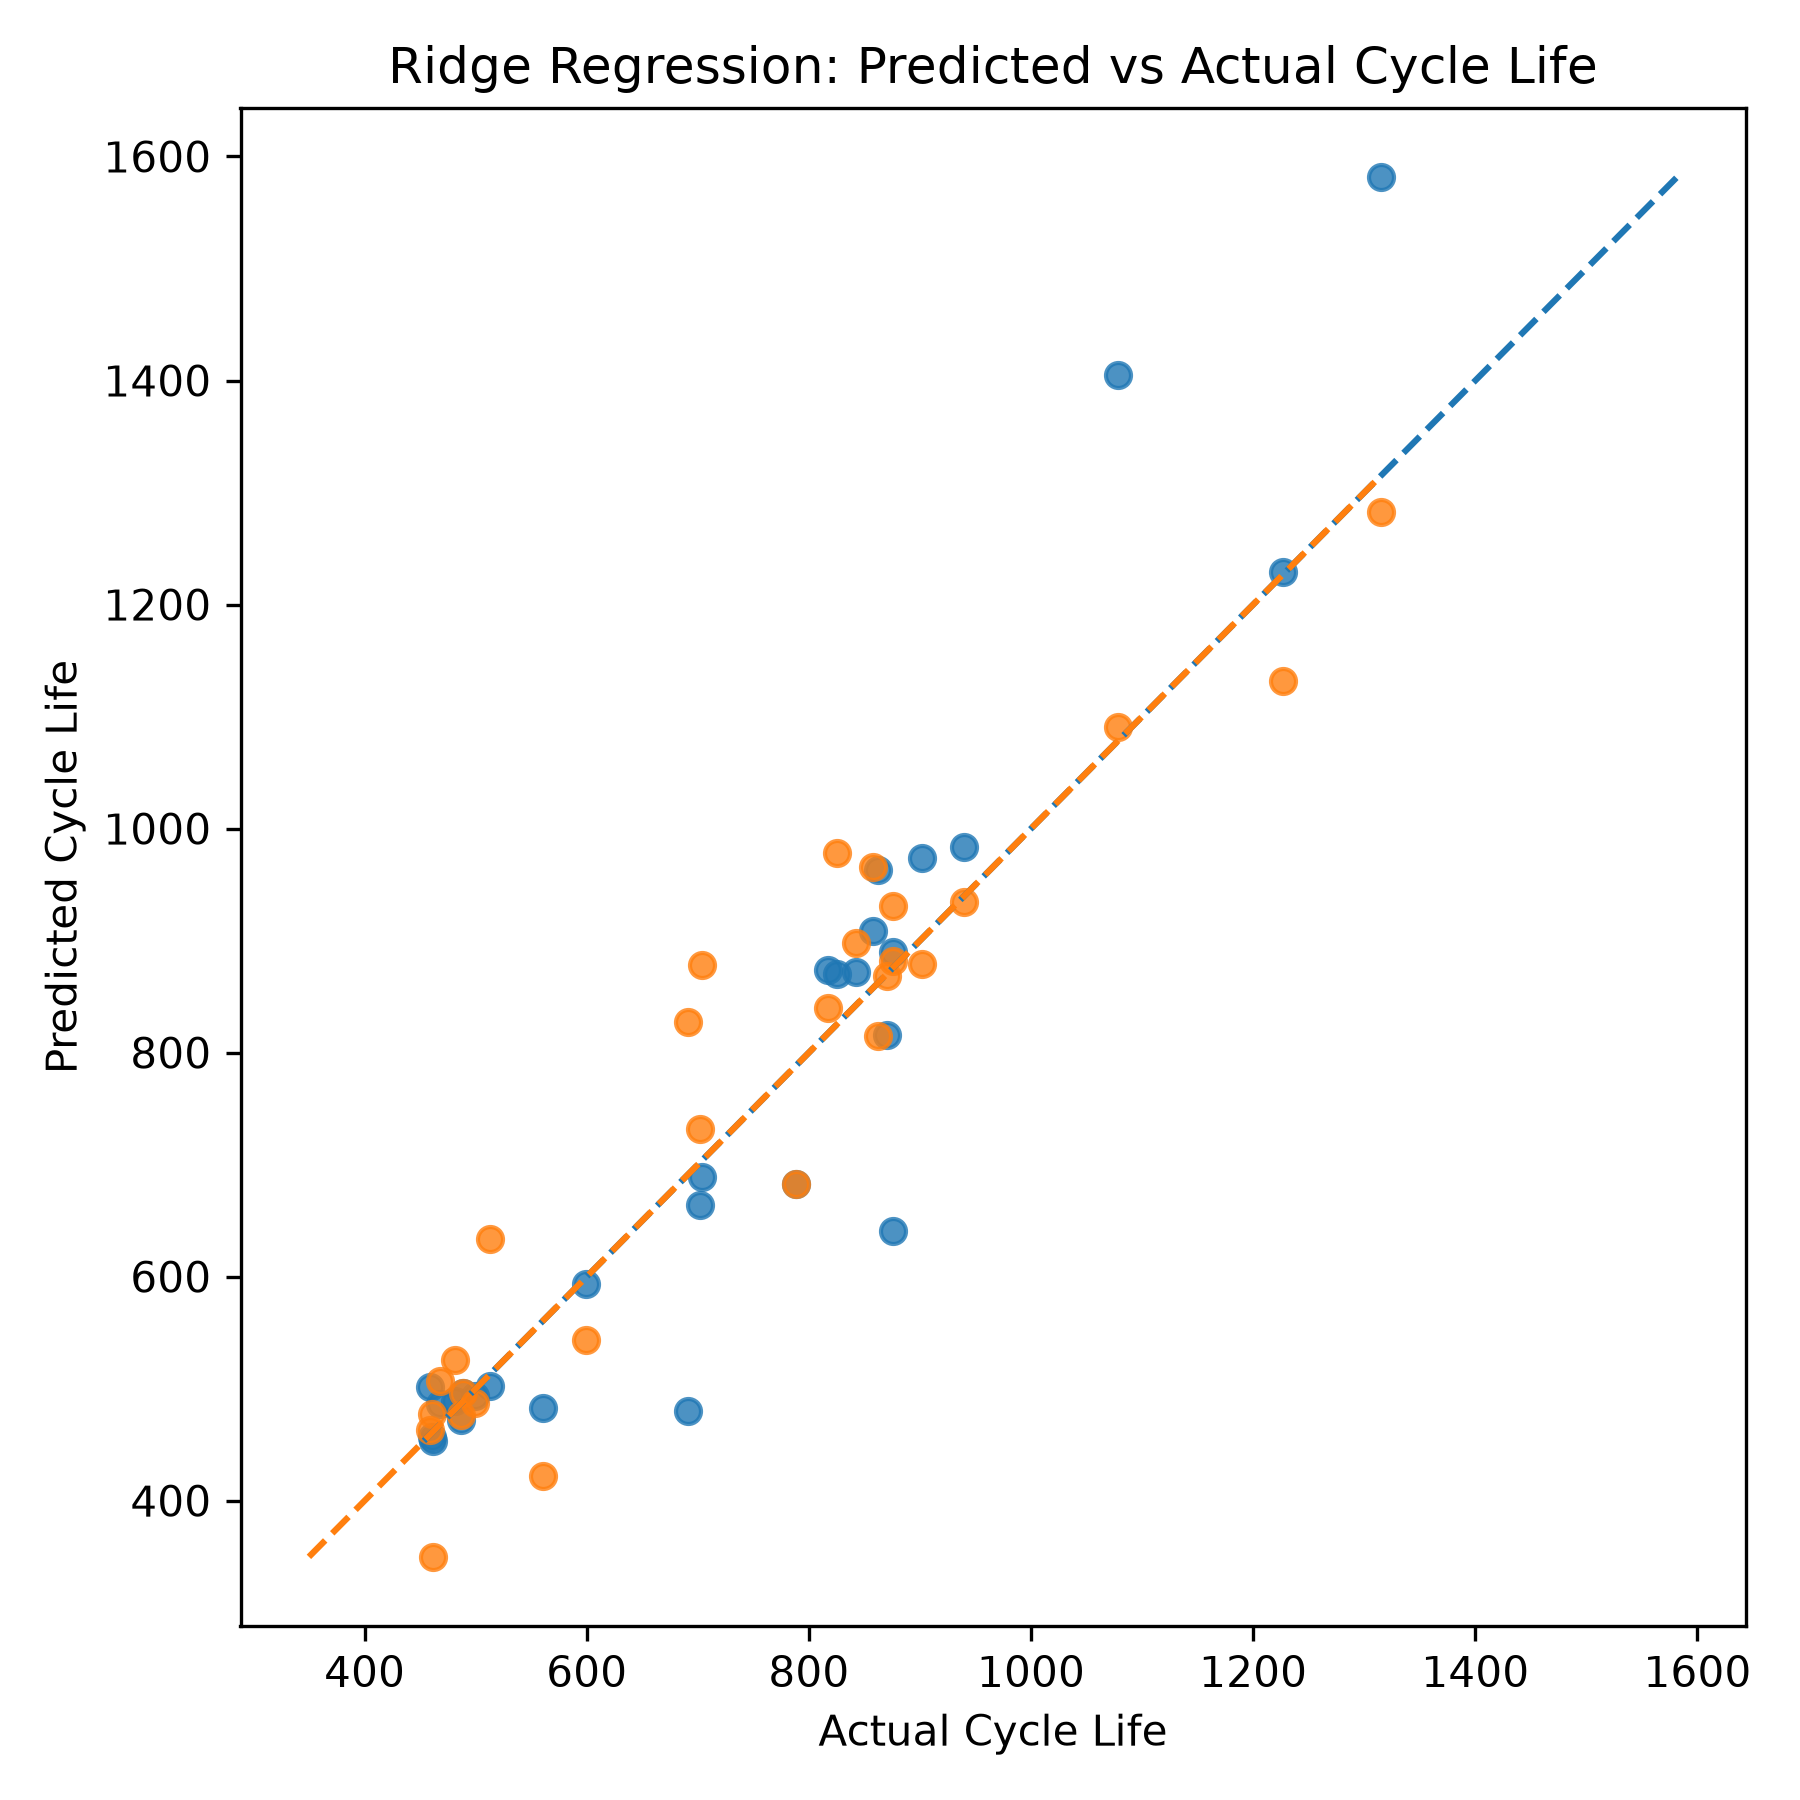
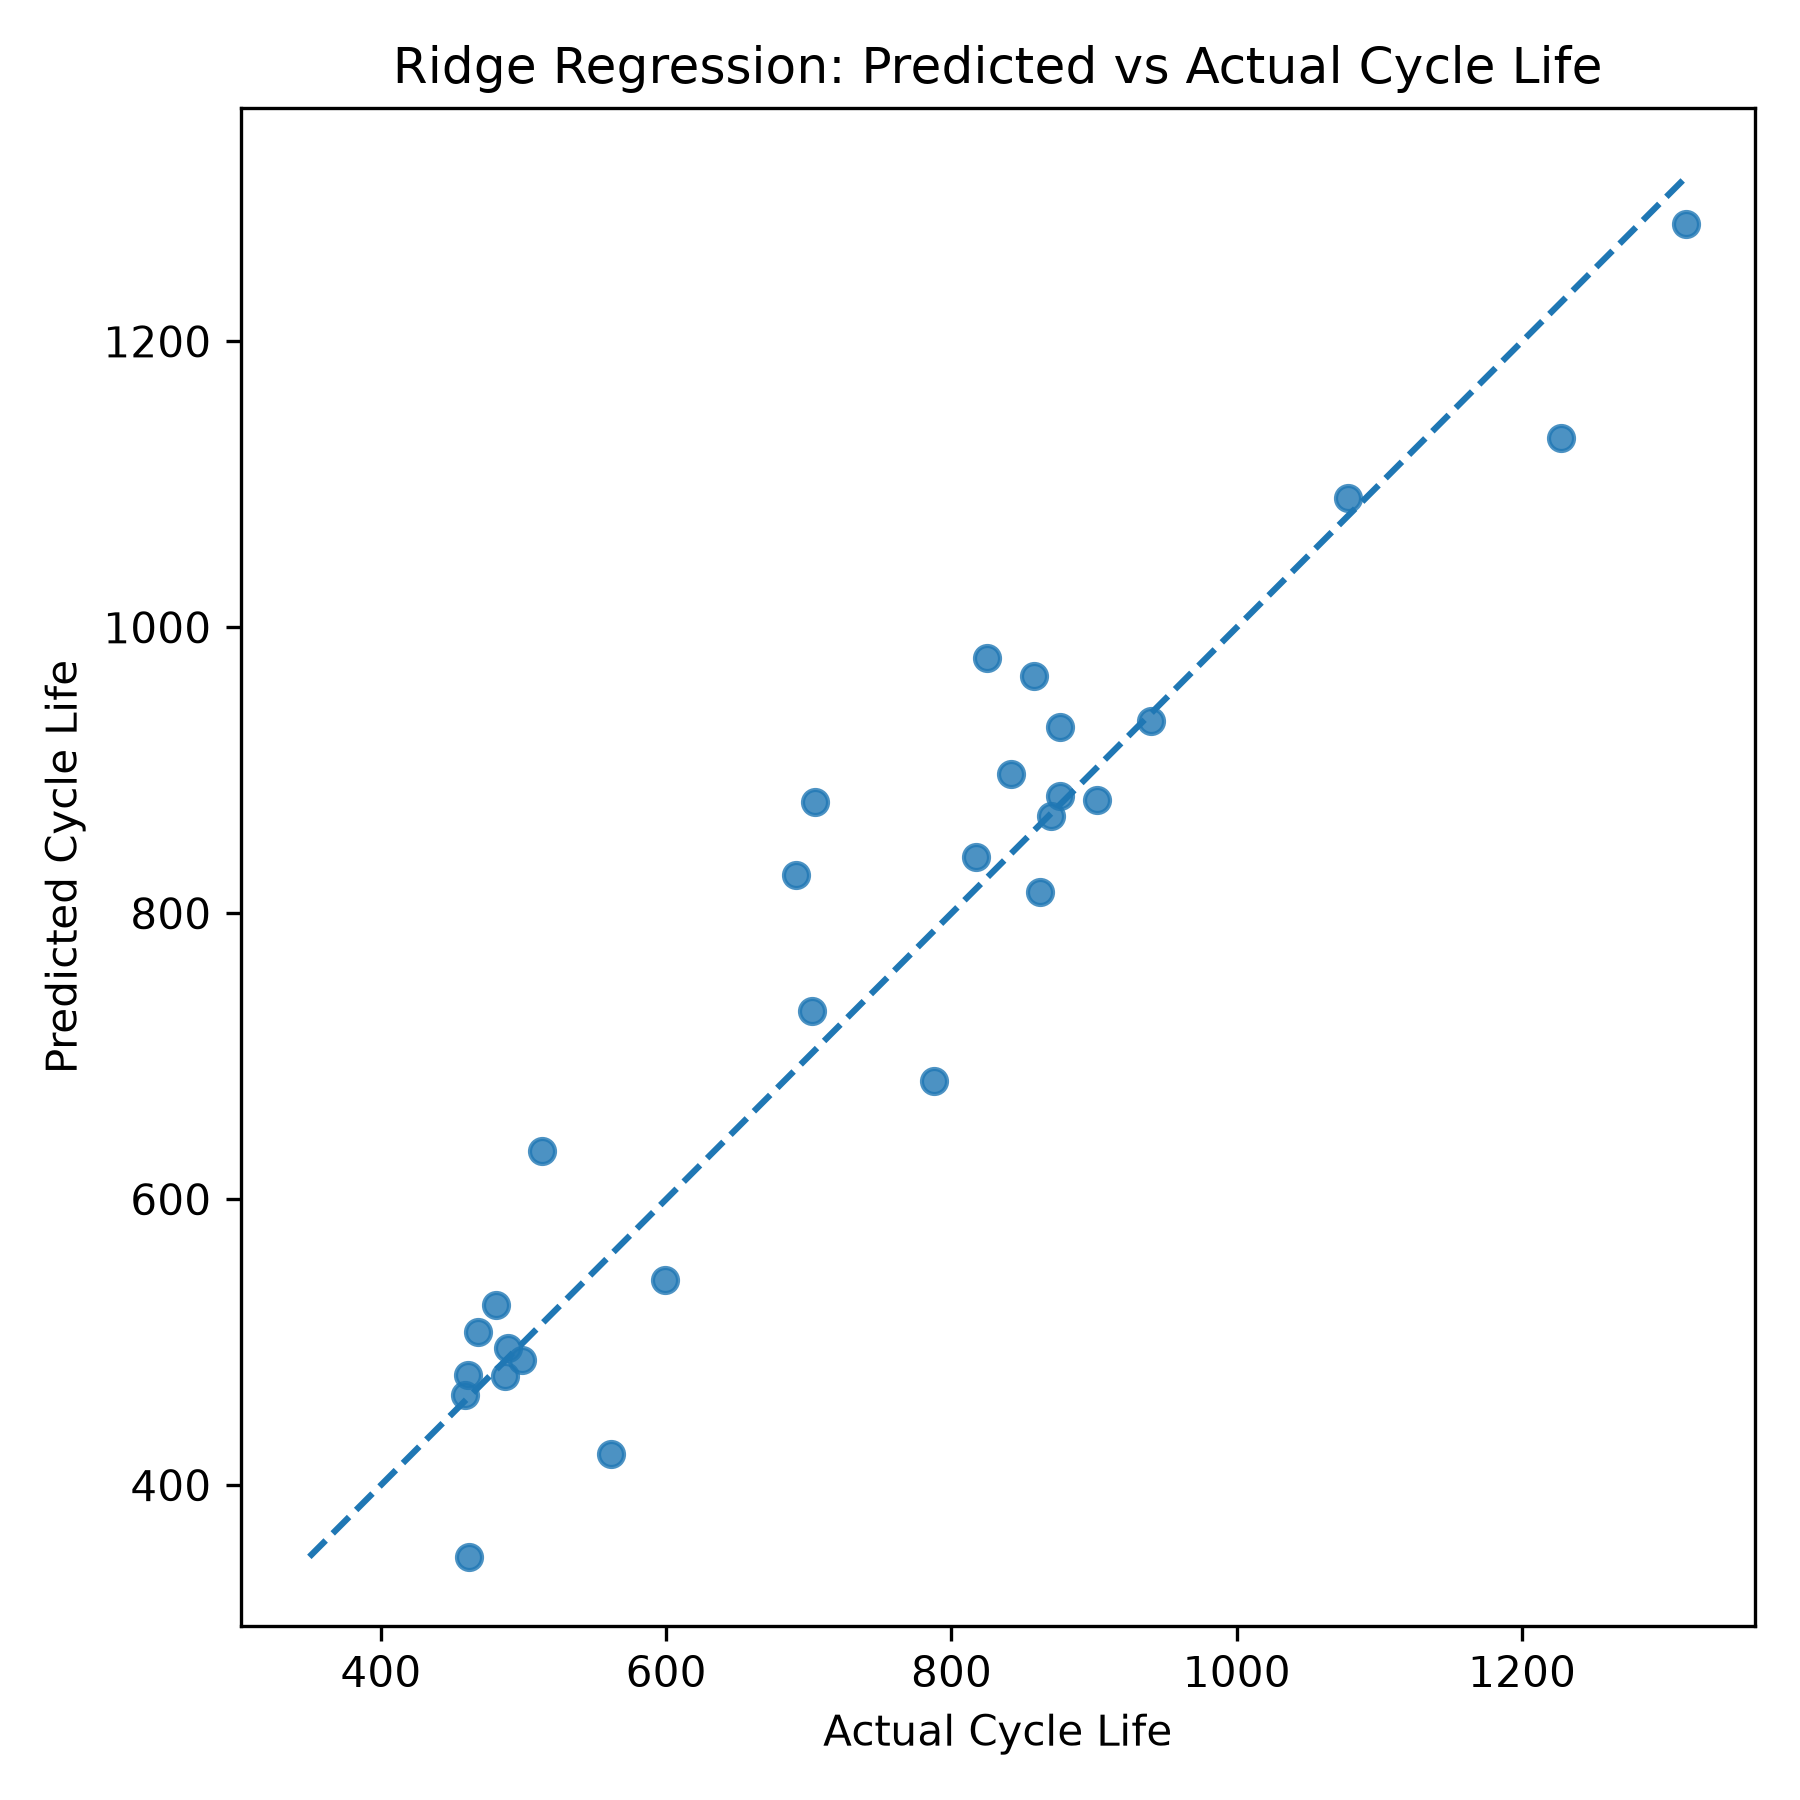
Add ElasticNet model evaluation

diff --git a/src/models.py b/src/models.py
@@ -1,14 +1,15 @@
-import pandas as pd
 from pathlib import Path
+
 import matplotlib.pyplot as plt
+import pandas as pd
 
 from sklearn.dummy import DummyRegressor
+from sklearn.ensemble import RandomForestRegressor
+from sklearn.linear_model import ElasticNet, Ridge
+from sklearn.metrics import mean_absolute_error, mean_squared_error, r2_score
+from sklearn.model_selection import KFold, cross_validate, train_test_split
 from sklearn.pipeline import Pipeline
 from sklearn.preprocessing import StandardScaler
-from sklearn.linear_model import Ridge
-from sklearn.ensemble import RandomForestRegressor
-from sklearn.model_selection import train_test_split, KFold, cross_validate
-from sklearn.metrics import mean_absolute_error, mean_squared_error, r2_score
 
 
 def load_feature_table(path="data/processed/summary_features.csv"):
@@ -16,6 +17,7 @@ def load_feature_table(path="data/processed/summary_features.csv"):
     Load the early-cycle summary feature table.
     """
     return pd.read_csv(path)
+
 
 def evaluate_model(model, X_test, y_test):
     """
@@ -28,6 +30,7 @@ def evaluate_model(model, X_test, y_test):
     r2 = r2_score(y_test, predictions)
 
     return predictions, mae, rmse, r2
+
 
 def cross_validate_model(model, X, y, cv):
     """
@@ -43,7 +46,7 @@ def cross_validate_model(model, X, y, cv):
             "mae": "neg_mean_absolute_error",
             "rmse": "neg_root_mean_squared_error",
             "r2": "r2",
-        }
+        },
     )
 
     results = {
@@ -57,11 +60,11 @@ def cross_validate_model(model, X, y, cv):
 
     return results
 
+
 if __name__ == "__main__":
     df = load_feature_table()
 
     target_col = "cycle_life"
-
     non_feature_cols = ["batch_file", "cell_index", target_col]
     feature_cols = [col for col in df.columns if col not in non_feature_cols]
 
@@ -81,53 +84,44 @@ if __name__ == "__main__":
         X,
         y,
         test_size=0.2,
-        random_state=42
+        random_state=42,
     )
 
-    model = DummyRegressor(strategy="mean")
-    model.fit(X_train, y_train)
+    cv = KFold(n_splits=5, shuffle=True, random_state=42)
+    figures_dir = Path("reports/figures")
+    figures_dir.mkdir(parents=True, exist_ok=True)
 
-    predictions = model.predict(X_test)
-
-    mae = mean_absolute_error(y_test, predictions)
-    rmse = mean_squared_error(y_test, predictions) ** 0.5
-    r2 = r2_score(y_test, predictions)
+    dummy_model = DummyRegressor(strategy="mean")
+    dummy_model.fit(X_train, y_train)
+    dummy_predictions, dummy_mae, dummy_rmse, dummy_r2 = evaluate_model(
+        dummy_model,
+        X_test,
+        y_test,
+    )
 
     print("\nDummy baseline results:")
-    print(f"MAE: {mae:.2f} cycles")
-    print(f"RMSE: {rmse:.2f} cycles")
-    print(f"R²: {r2:.3f}")
+    print(f"MAE: {dummy_mae:.2f} cycles")
+    print(f"RMSE: {dummy_rmse:.2f} cycles")
+    print(f"R²: {dummy_r2:.3f}")
 
     ridge_model = Pipeline([
         ("scaler", StandardScaler()),
-        ("model", Ridge(alpha=1.0))
+        ("model", Ridge(alpha=1.0)),
     ])
 
-    cv = KFold(n_splits=5, shuffle=True, random_state=42)
-
-    ridge_cv_scores = cross_validate(
-        ridge_model,
-        X,
-        y,
-        cv=cv,
-        scoring={
-            "mae": "neg_mean_absolute_error",
-            "rmse": "neg_root_mean_squared_error",
-            "r2": "r2",
-        }
-    )
+    ridge_cv_results = cross_validate_model(ridge_model, X, y, cv)
 
     print("\nRidge regression 5-fold cross-validation:")
-    print(f"MAE: {-ridge_cv_scores['test_mae'].mean():.2f} ± {ridge_cv_scores['test_mae'].std():.2f} cycles")
-    print(f"RMSE: {-ridge_cv_scores['test_rmse'].mean():.2f} ± {ridge_cv_scores['test_rmse'].std():.2f} cycles")
-    print(f"R²: {ridge_cv_scores['test_r2'].mean():.3f} ± {ridge_cv_scores['test_r2'].std():.3f}")
-    ridge_model.fit(X_train, y_train)
+    print(f"MAE: {ridge_cv_results['mae_mean']:.2f} ± {ridge_cv_results['mae_std']:.2f} cycles")
+    print(f"RMSE: {ridge_cv_results['rmse_mean']:.2f} ± {ridge_cv_results['rmse_std']:.2f} cycles")
+    print(f"R²: {ridge_cv_results['r2_mean']:.3f} ± {ridge_cv_results['r2_std']:.3f}")
 
+    ridge_model.fit(X_train, y_train)
     ridge_predictions, ridge_mae, ridge_rmse, ridge_r2 = evaluate_model(
-    ridge_model,
-    X_test,
-    y_test
-)
+        ridge_model,
+        X_test,
+        y_test,
+    )
 
     print("\nRidge regression results:")
     print(f"MAE: {ridge_mae:.2f} cycles")
@@ -135,11 +129,10 @@ if __name__ == "__main__":
     print(f"R²: {ridge_r2:.3f}")
 
     ridge_coefficients = ridge_model.named_steps["model"].coef_
-
     ridge_coef_df = pd.DataFrame({
         "feature": feature_cols,
         "coefficient": ridge_coefficients,
-        "abs_coefficient": abs(ridge_coefficients)
+        "abs_coefficient": abs(ridge_coefficients),
     }).sort_values("abs_coefficient", ascending=False)
 
     print("\nRidge regression coefficients:")
@@ -147,38 +140,50 @@ if __name__ == "__main__":
 
     ridge_coef_output_path = "reports/ridge_coefficients.csv"
     ridge_coef_df.to_csv(ridge_coef_output_path, index=False)
-
     print(f"\nSaved Ridge coefficients to: {ridge_coef_output_path}")
+
+    elastic_net_model = Pipeline([
+        ("scaler", StandardScaler()),
+        ("model", ElasticNet(alpha=0.1, l1_ratio=0.5, max_iter=10000, random_state=42)),
+    ])
+
+    elastic_net_cv_results = cross_validate_model(elastic_net_model, X, y, cv)
+
+    print("\nElasticNet 5-fold cross-validation:")
+    print(f"MAE: {elastic_net_cv_results['mae_mean']:.2f} ± {elastic_net_cv_results['mae_std']:.2f} cycles")
+    print(f"RMSE: {elastic_net_cv_results['rmse_mean']:.2f} ± {elastic_net_cv_results['rmse_std']:.2f} cycles")
+    print(f"R²: {elastic_net_cv_results['r2_mean']:.3f} ± {elastic_net_cv_results['r2_std']:.3f}")
+
+    elastic_net_model.fit(X_train, y_train)
+    elastic_net_predictions, elastic_net_mae, elastic_net_rmse, elastic_net_r2 = evaluate_model(
+        elastic_net_model,
+        X_test,
+        y_test,
+    )
+
+    print("\nElasticNet results:")
+    print(f"MAE: {elastic_net_mae:.2f} cycles")
+    print(f"RMSE: {elastic_net_rmse:.2f} cycles")
+    print(f"R²: {elastic_net_r2:.3f}")
 
     rf_model = RandomForestRegressor(
         n_estimators=300,
         random_state=42,
-        min_samples_leaf=3
+        min_samples_leaf=3,
     )
 
-    rf_cv_scores = cross_validate(
-        rf_model,
-        X,
-        y,
-        cv=cv,
-        scoring={
-            "mae": "neg_mean_absolute_error",
-            "rmse": "neg_root_mean_squared_error",
-            "r2": "r2",
-        }
-    )
+    rf_cv_results = cross_validate_model(rf_model, X, y, cv)
 
     print("\nRandom Forest 5-fold cross-validation:")
-    print(f"MAE: {-rf_cv_scores['test_mae'].mean():.2f} ± {rf_cv_scores['test_mae'].std():.2f} cycles")
-    print(f"RMSE: {-rf_cv_scores['test_rmse'].mean():.2f} ± {rf_cv_scores['test_rmse'].std():.2f} cycles")
-    print(f"R²: {rf_cv_scores['test_r2'].mean():.3f} ± {rf_cv_scores['test_r2'].std():.3f}")
+    print(f"MAE: {rf_cv_results['mae_mean']:.2f} ± {rf_cv_results['mae_std']:.2f} cycles")
+    print(f"RMSE: {rf_cv_results['rmse_mean']:.2f} ± {rf_cv_results['rmse_std']:.2f} cycles")
+    print(f"R²: {rf_cv_results['r2_mean']:.3f} ± {rf_cv_results['r2_std']:.3f}")
 
     rf_model.fit(X_train, y_train)
-
     rf_predictions, rf_mae, rf_rmse, rf_r2 = evaluate_model(
         rf_model,
         X_test,
-        y_test
+        y_test,
     )
 
     print("\nRandom Forest results:")
@@ -186,13 +191,39 @@ if __name__ == "__main__":
     print(f"RMSE: {rf_rmse:.2f} cycles")
     print(f"R²: {rf_r2:.3f}")
 
+    importances = rf_model.feature_importances_
+    importance_df = pd.DataFrame({
+        "feature": feature_cols,
+        "importance": importances,
+    }).sort_values("importance", ascending=False)
+
+    print("\nRandom Forest feature importances:")
+    print(importance_df)
+
+    importance_output_path = "reports/feature_importances.csv"
+    importance_df.to_csv(importance_output_path, index=False)
+    print(f"\nSaved feature importances to: {importance_output_path}")
+
+    plt.figure(figsize=(8, 6))
+    plt.barh(importance_df["feature"], importance_df["importance"])
+    plt.gca().invert_yaxis()
+    plt.title("Random Forest Feature Importance")
+    plt.xlabel("Importance")
+    plt.ylabel("Feature")
+    plt.tight_layout()
+
+    importance_plot_path = figures_dir / "random_forest_feature_importance.png"
+    plt.savefig(importance_plot_path, dpi=300)
+    plt.close()
+    print(f"Saved feature importance plot to: {importance_plot_path}")
+
     results = pd.DataFrame([
         {
             "model": "Dummy Mean Baseline",
             "evaluation": "holdout",
-            "mae_cycles": mae,
-            "rmse_cycles": rmse,
-            "r2": r2,
+            "mae_cycles": dummy_mae,
+            "rmse_cycles": dummy_rmse,
+            "r2": dummy_r2,
         },
         {
             "model": "Ridge Regression",
@@ -200,6 +231,13 @@ if __name__ == "__main__":
             "mae_cycles": ridge_mae,
             "rmse_cycles": ridge_rmse,
             "r2": ridge_r2,
+        },
+        {
+            "model": "ElasticNet",
+            "evaluation": "holdout",
+            "mae_cycles": elastic_net_mae,
+            "rmse_cycles": elastic_net_rmse,
+            "r2": elastic_net_r2,
         },
         {
             "model": "Random Forest",
@@ -211,51 +249,25 @@ if __name__ == "__main__":
         {
             "model": "Ridge Regression",
             "evaluation": "5-fold CV mean",
-            "mae_cycles": -ridge_cv_scores["test_mae"].mean(),
-            "rmse_cycles": -ridge_cv_scores["test_rmse"].mean(),
-            "r2": ridge_cv_scores["test_r2"].mean(),
+            "mae_cycles": ridge_cv_results["mae_mean"],
+            "rmse_cycles": ridge_cv_results["rmse_mean"],
+            "r2": ridge_cv_results["r2_mean"],
+        },
+        {
+            "model": "ElasticNet",
+            "evaluation": "5-fold CV mean",
+            "mae_cycles": elastic_net_cv_results["mae_mean"],
+            "rmse_cycles": elastic_net_cv_results["rmse_mean"],
+            "r2": elastic_net_cv_results["r2_mean"],
         },
         {
             "model": "Random Forest",
             "evaluation": "5-fold CV mean",
-            "mae_cycles": -rf_cv_scores["test_mae"].mean(),
-            "rmse_cycles": -rf_cv_scores["test_rmse"].mean(),
-            "r2": rf_cv_scores["test_r2"].mean(),
+            "mae_cycles": rf_cv_results["mae_mean"],
+            "rmse_cycles": rf_cv_results["rmse_mean"],
+            "r2": rf_cv_results["r2_mean"],
         },
     ])
-
-    importances = rf_model.feature_importances_
-
-    importance_df = pd.DataFrame({
-        "feature": feature_cols,
-        "importance": importances
-    }).sort_values("importance", ascending=False)
-
-    print("\nRandom Forest feature importances:")
-    print(importance_df)
-
-    figures_dir = Path("reports/figures")
-    figures_dir.mkdir(parents=True, exist_ok=True)
-
-    importance_output_path = "reports/feature_importances.csv"
-    importance_df.to_csv(importance_output_path, index=False)
-    print(f"\nSaved feature importances to: {importance_output_path}")
-
-    plt.figure(figsize=(8, 6))
-    plt.barh(importance_df["feature"], importance_df["importance"])
-    plt.gca().invert_yaxis()
-
-    plt.title("Random Forest Feature Importance")
-    plt.xlabel("Importance")
-    plt.ylabel("Feature")
-
-    plt.tight_layout()
-
-    importance_plot_path = figures_dir / "random_forest_feature_importance.png"
-    plt.savefig(importance_plot_path, dpi=300)
-    plt.close()
-
-    print(f"Saved feature importance plot to: {importance_plot_path}")
 
     output_path = "reports/model_results.csv"
     results.to_csv(output_path, index=False)
@@ -265,28 +277,18 @@ if __name__ == "__main__":
     print(results)
 
     plt.figure(figsize=(6, 6))
-    plt.scatter(y_test, rf_predictions, alpha=0.8)
-
-    min_value = min(y_test.min(), rf_predictions.min())
-    max_value = max(y_test.max(), rf_predictions.max())
-
-    plt.plot([min_value, max_value], [min_value, max_value], linestyle="--")
-
     plt.scatter(y_test, ridge_predictions, alpha=0.8)
 
     min_value = min(y_test.min(), ridge_predictions.min())
     max_value = max(y_test.max(), ridge_predictions.max())
-
     plt.plot([min_value, max_value], [min_value, max_value], linestyle="--")
 
     plt.title("Ridge Regression: Predicted vs Actual Cycle Life")
     plt.xlabel("Actual Cycle Life")
     plt.ylabel("Predicted Cycle Life")
-
     plt.tight_layout()
 
     output_plot = figures_dir / "ridge_predicted_vs_actual.png"
     plt.savefig(output_plot, dpi=300)
     plt.close()
-
     print(f"\nSaved predicted vs actual plot to: {output_plot}")
